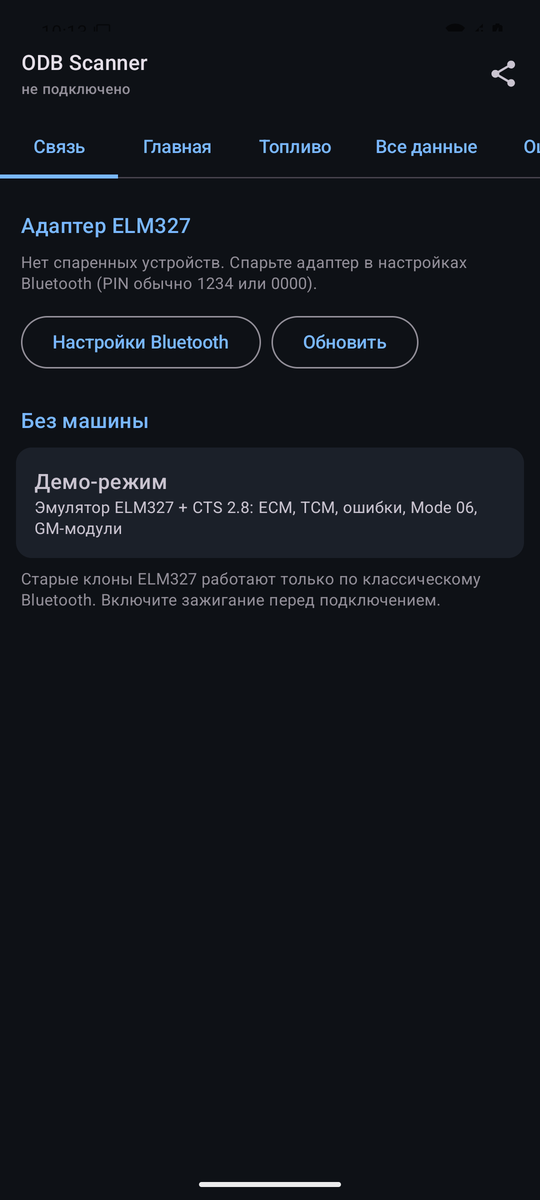
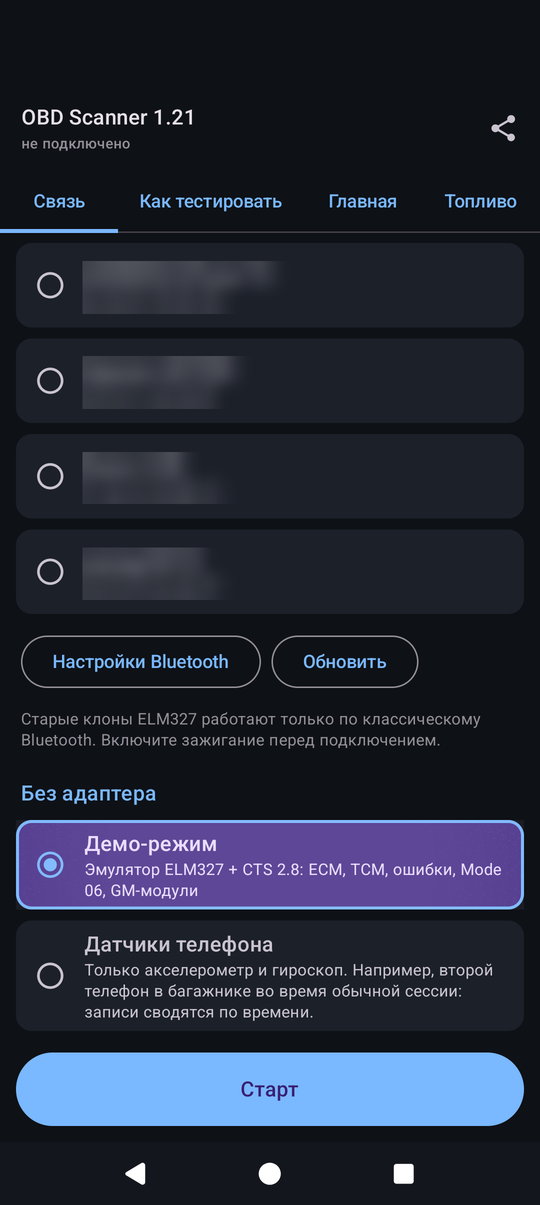
README: new Connect screenshot (source pick, Start)

diff --git a/README.md b/README.md
@@ -23,7 +23,7 @@ Android-приложение для чтения данных из машины 
   <tr>
     <td align="center">Катализаторы, EVAP, ошибки</td>
     <td align="center">GM-скан: модули и DID</td>
-    <td align="center">Связь, демо-режим</td>
+    <td align="center">Связь: выбор источника, Старт</td>
   </tr>
 </table>
 
